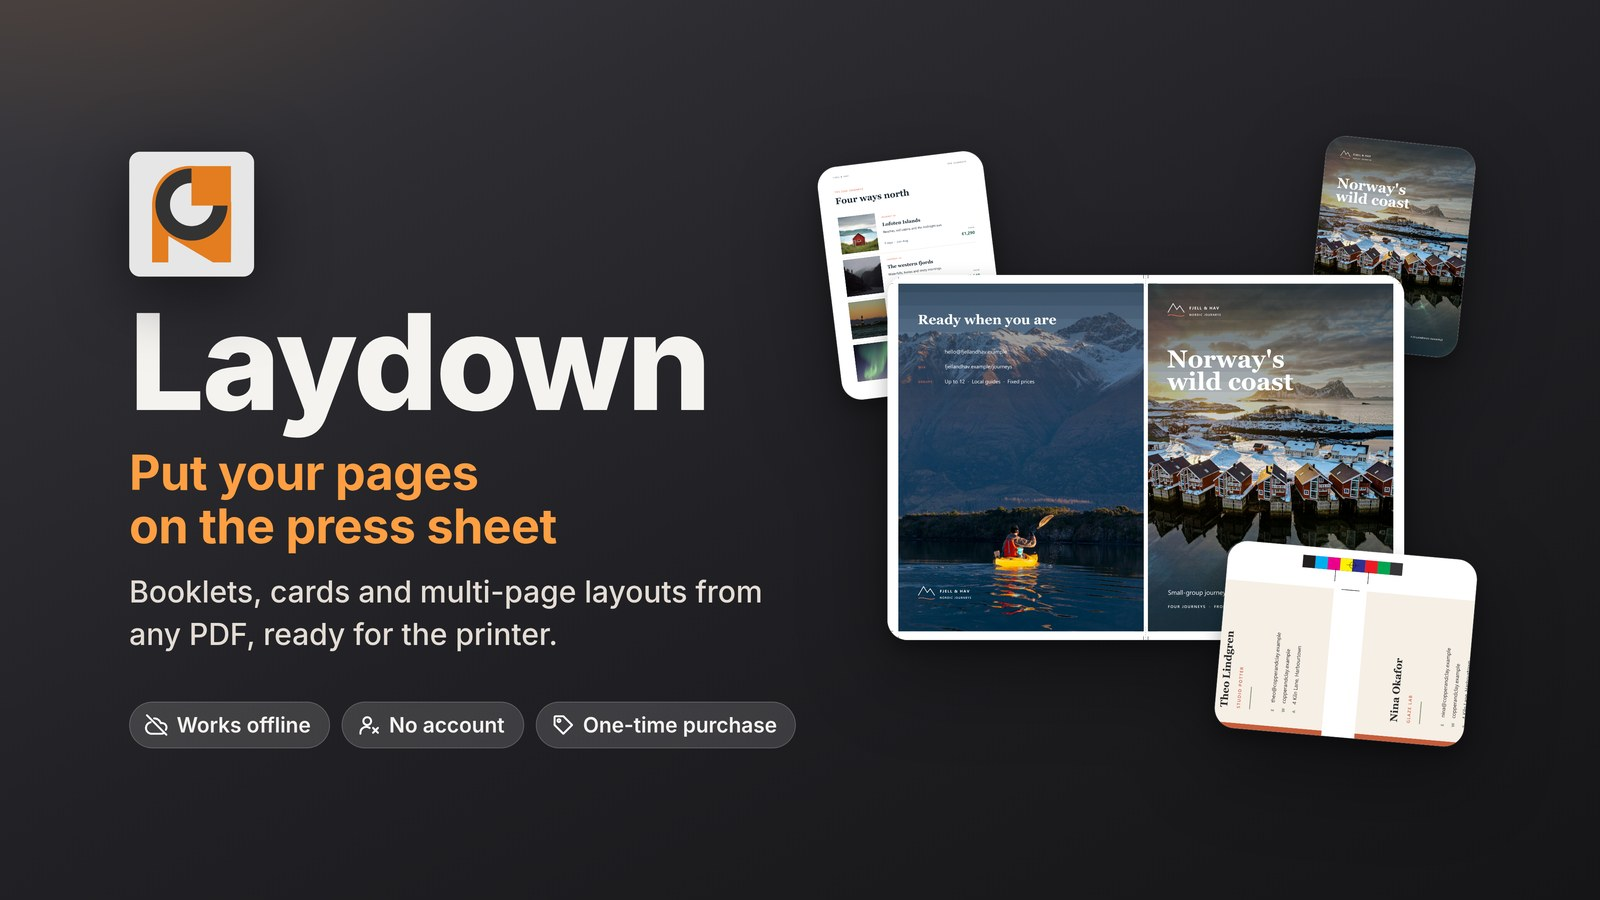
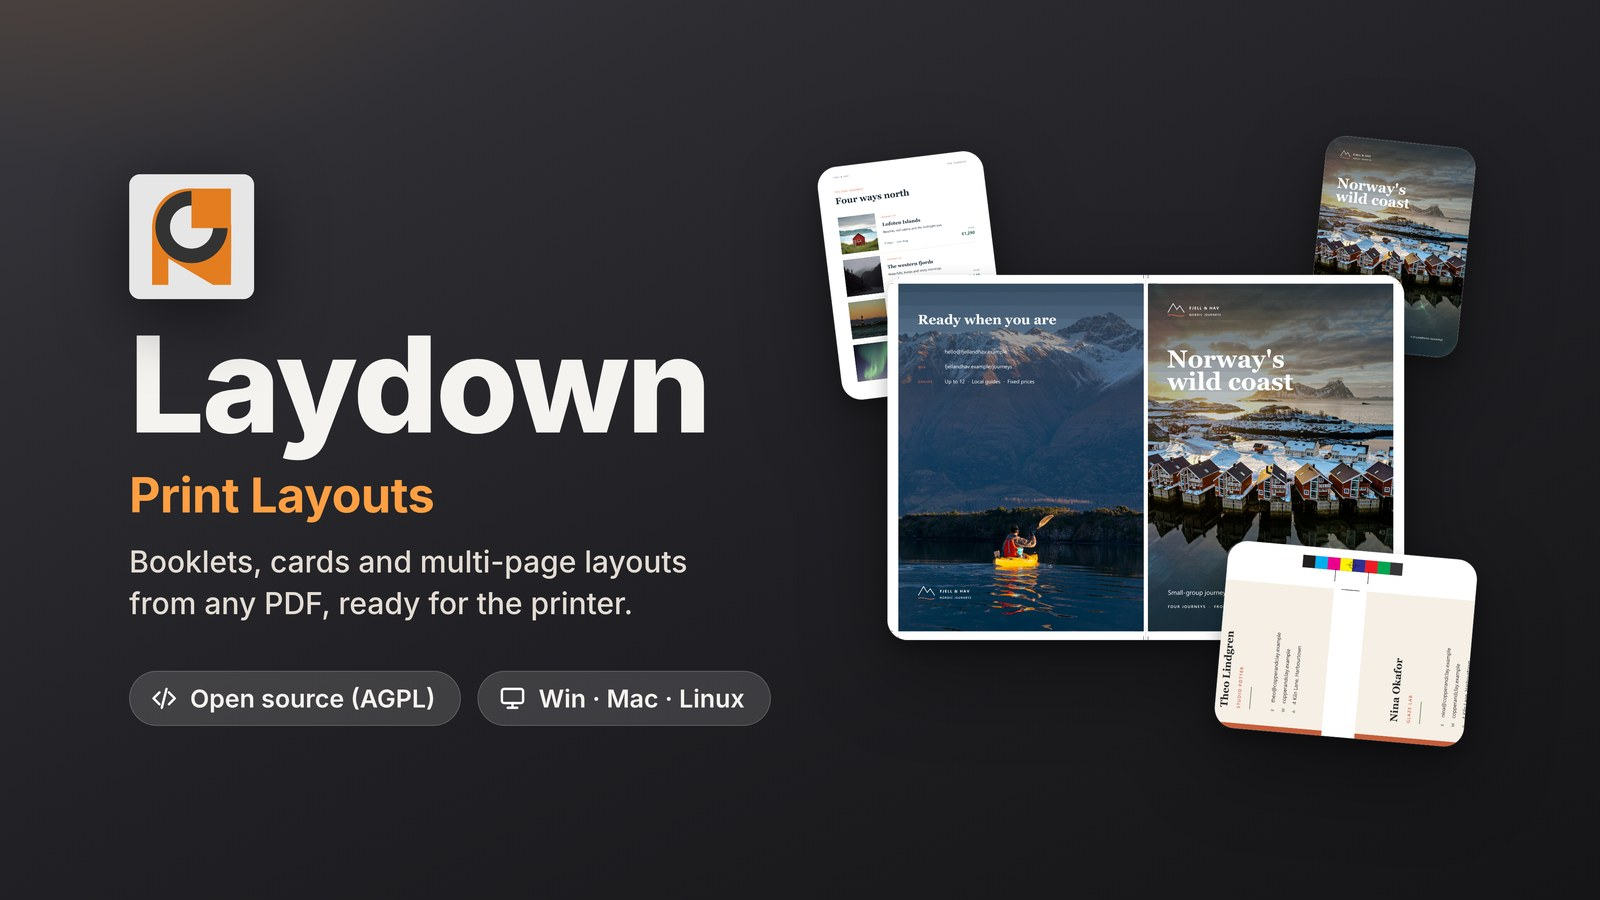
README: title Laydown — Print Layouts, open-source featured image

Changed region(s): [[0.0625, 0.3422, 0.4688, 0.7156], [0.0625, 0.7467, 0.5, 0.84], [0.0625, 0.1556, 0.1562, 0.3733]]

diff --git a/README.md b/README.md
@@ -1,8 +1,8 @@
 <p align="center">
-  <img src="assets/readme/featured.jpg" alt="Laydown — put your pages on the press sheet: booklets, cards and multi-page layouts from any PDF"/>
+  <img src="assets/readme/featured.jpg" alt="Laydown — Print Layouts: booklets, cards and multi-page layouts from any PDF"/>
 </p>
 
-# Laydown — put your pages on the press sheet
+# Laydown — Print Layouts
 
 **Laydown lays PDF pages out on printing sheets.** Give it a document, tell it what you're
 printing on, and it arranges the pages so they come out right after they're printed, folded and
